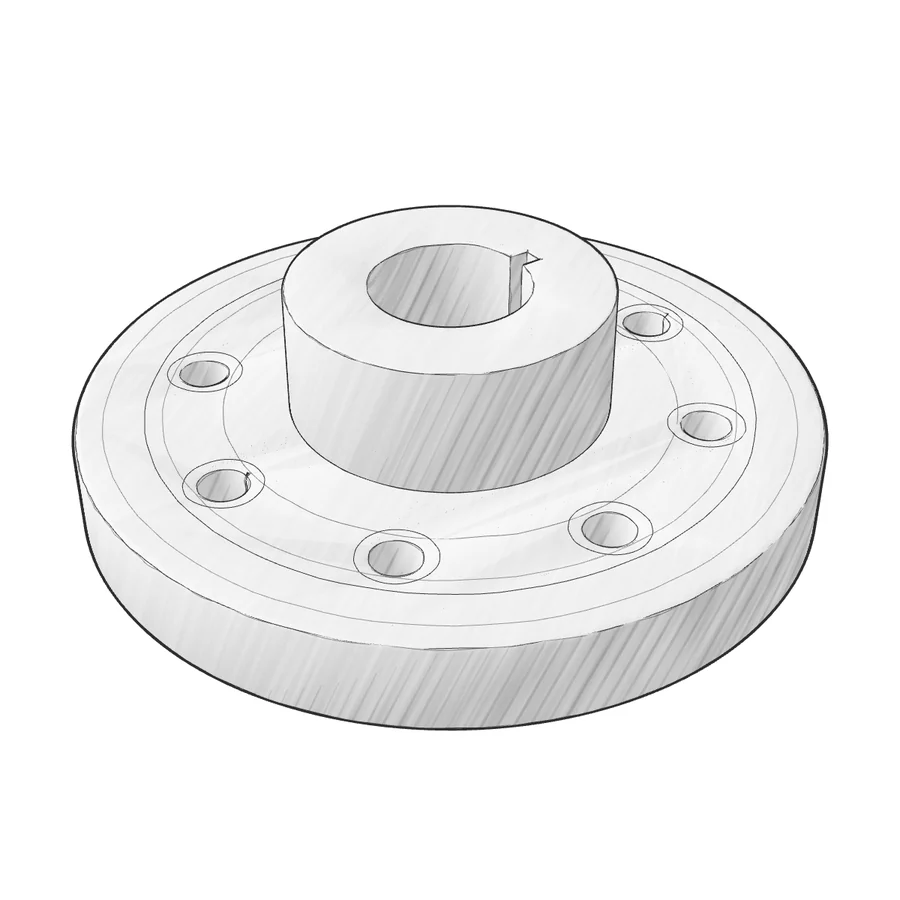
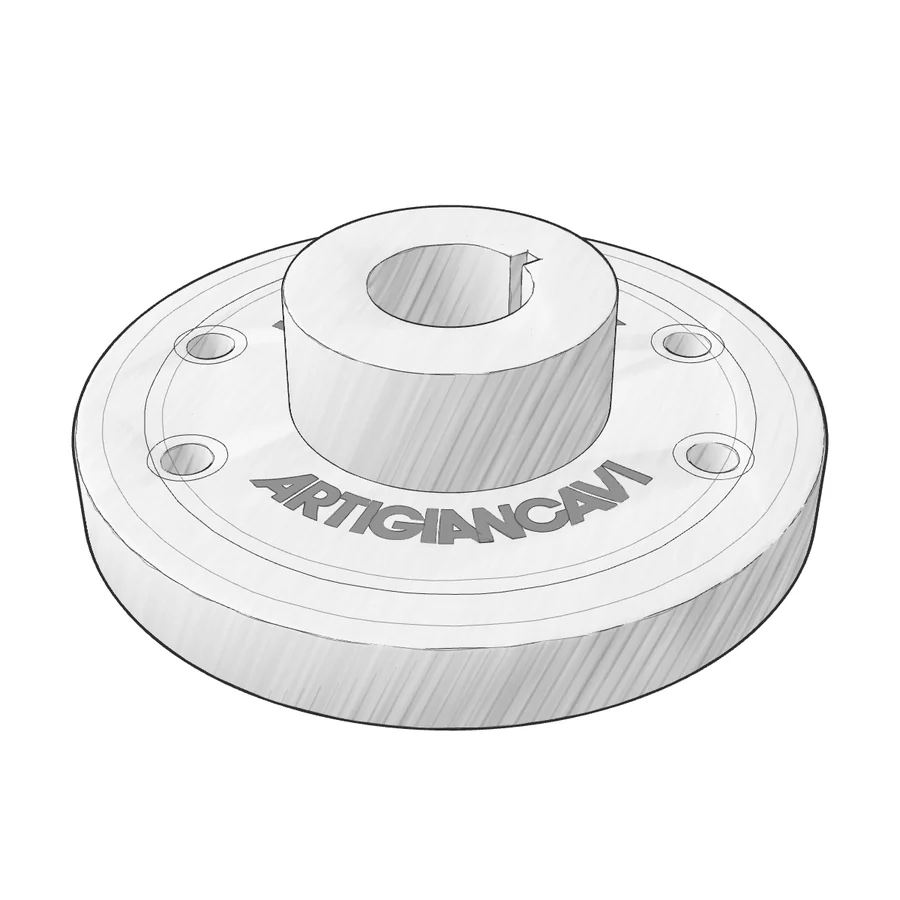
feat: disco con 4 fori e scritta ARTIGIANCAVI incisa, di nuovo col mouse
Meno fori e scritta incisa con le lettere del logo su due archi opposti. Corretta la riga bianca dentro un foro (cerchi a poligono). Il disco segue di nuovo il mouse. Foto di partenza rifatta. Versione file v=52.

diff --git a/js/hero3d.js b/js/hero3d.js
@@ -6,6 +6,7 @@
    Il tema chiaro/scuro lo gestisce il CSS (stessa regola dell'immagine a matita): qui si disegna sempre nero su carta bianca. */
 import * as THREE from "three";
 import { RoomEnvironment } from "./vendor/RoomEnvironment.js";
+import { LETTERE, LARGHEZZA, ALTEZZA } from "./logo-lettere.js";
 
 (function () {
   "use strict";
@@ -18,8 +19,7 @@ import { RoomEnvironment } from "./vendor/RoomEnvironment.js";
   var ANGOLO_INIZIO = 0.6;    // stesso angolo della foto segnaposto
   var INCLINAZIONE = modo3d ? -1.0 : -0.95;   // quanto il pezzo e' inclinato verso chi guarda
   var VELOCITA = modo3d ? 0.22 : 0.5;   // giri (radianti al secondo)
-  // Il metallo segue il mouse; il disco a matita NO: se si inclina cambiano le zone d'ombra e il tratteggio compare e sparisce
-  var MOUSE_X = modo3d ? 0.35 : 0, MOUSE_Y = modo3d ? 0.18 : 0;
+  var MOUSE_X = 0.35, MOUSE_Y = 0.18;   // inclinazione del metallo col mouse
 
   var renderer;
   try {
@@ -105,7 +105,11 @@ import { RoomEnvironment } from "./vendor/RoomEnvironment.js";
     var g = new THREE.BufferGeometry(); g.setAttribute("position", new THREE.Float32BufferAttribute(fuori, 3));
     return new THREE.LineSegments(g, mat);
   }
-  function foroTondo(x, y, r) { var p = new THREE.Path(); p.absarc(x, y, r, 0, Math.PI * 2, true); return p; }
+  // Cerchi come poligoni con punti tutti diversi: con l'arco intero il punto di partenza e quello di arrivo coincidono e
+  // lasciavano una riga verticale dentro i fori.
+  function puntiCerchio(x, y, r, n) { var p = []; for (var i = 0; i < n; i++) { var a = i / n * Math.PI * 2; p.push(new THREE.Vector2(x + r * Math.cos(a), y + r * Math.sin(a))); } return p; }
+  function foroTondo(x, y, r) { return new THREE.Path(puntiCerchio(x, y, r, 72).reverse()); }
+  function cerchioPieno(r, n) { return new THREE.Shape(puntiCerchio(0, 0, r, n)); }
   // Foro centrale con la sede della linguetta (una tacca rettangolare sul lato destro)
   function foroConLinguetta(r, mezza, fondo) {
     var a0 = Math.asin(mezza / r), p = new THREE.Path();
@@ -173,9 +177,39 @@ import { RoomEnvironment } from "./vendor/RoomEnvironment.js";
     "  #include <colorspace_fragment>",
     "}"].join("\n");
 
+  // "ARTIGIANCAVI" con le lettere del logo, incisa su un arco della faccia superiore (la base delle lettere sta verso il bordo,
+  // la cima verso il mozzo). Ogni punto della lettera e' portato sull'arco; i lati sono suddivisi cosi' restano curvi.
+  function scrittaIncisa(gruppo, z, centroGradi, bordo, altezza, matRiempi, matL1, matL2) {
+    var sc = altezza / ALTEZZA, rm = bordo - altezza / 2, uc = LARGHEZZA / 2, th0 = centroGradi * Math.PI / 180;
+    var porta = function (pt) { var u = (pt[0] - uc) * sc, v = pt[1] * sc, th = th0 + u / rm, r = bordo - v; return new THREE.Vector2(r * Math.cos(th), r * Math.sin(th)); };
+    var densa = function (poly) {
+      var out = [];
+      for (var i = 0; i < poly.length; i++) {
+        var a = poly[i], b = poly[(i + 1) % poly.length], n = Math.max(1, Math.ceil(Math.hypot(b[0] - a[0], b[1] - a[1]) / 1.6));
+        for (var k = 0; k < n; k++) out.push([a[0] + (b[0] - a[0]) * k / n, a[1] + (b[1] - a[1]) * k / n]);
+      }
+      return out;
+    };
+    var linee = function (pts, seme, amp, mat) {
+      var fuori = [], a = new THREE.Vector3(), b = new THREE.Vector3();
+      for (var i = 0; i < pts.length; i++) { var p = pts[i], q = pts[(i + 1) % pts.length]; a.set(p.x, p.y, z + 0.05); b.set(q.x, q.y, z + 0.05); trattoMano(a, b, seme, amp, 2, fuori); }
+      var g = new THREE.BufferGeometry(); g.setAttribute("position", new THREE.Float32BufferAttribute(fuori, 3));
+      return new THREE.LineSegments(g, mat);
+    };
+    LETTERE.forEach(function (l, i) {
+      var est = densa(l.e).map(porta), fori = l.f.map(function (h) { return densa(h).map(porta); });
+      var forma = new THREE.Shape(est); fori.forEach(function (h) { forma.holes.push(new THREE.Path(h)); });
+      var m = new THREE.Mesh(new THREE.ShapeGeometry(forma), matRiempi); m.position.z = z + 0.04; gruppo.add(m);
+      gruppo.add(linee(est, 11 + i, 0.14, matL1), linee(est, 23 + i, 0.3, matL2));
+      fori.forEach(function (h, k) { gruppo.add(linee(h, 41 + i + k, 0.14, matL1)); });
+    });
+  }
+
   function costruisciDiscoMatita() {
     // Misure ricavate dallo schizzo (raggio flangia = 100)
-    var R = 100, SPESS = 26, R_MOZZO = 43, ALT_MOZZO = 36, R_FORO = 22.4, R_FORI = 70, r_foro = 8;
+    var R = 100, SPESS = 26, R_MOZZO = 43, ALT_MOZZO = 36, R_FORO = 22.4, R_FORI = 74, r_foro = 8;
+    var ANGOLI_FORI = [-56, -12, 124, 168].map(function (g) { return g * Math.PI / 180; });   // 4 fori, nei vuoti fra le due scritte
+    var CENTRO_SCRITTA = -124;                                                                   // gradi: la prima scritta sta davanti nell'immagine di partenza
     // La luce e' scelta in modo che la prima immagine (foto di partenza) abbia l'ombra a destra, poi resta fissa SUL PEZZO
     var inizio = new THREE.Matrix4().makeRotationX(INCLINAZIONE).multiply(new THREE.Matrix4().makeRotationZ(ANGOLO_INIZIO));
     var lucePezzo = new THREE.Vector3(-0.70, 0.55, 0.50).normalize().transformDirection(inizio.clone().invert());
@@ -188,12 +222,12 @@ import { RoomEnvironment } from "./vendor/RoomEnvironment.js";
     var matLinea2 = new THREE.LineBasicMaterial({ color: 0x2a2a2a, transparent: true, opacity: 0.45 });
     var matLieve = new THREE.LineBasicMaterial({ color: 0x2a2a2a, transparent: true, opacity: 0.55 });
 
-    var flangia = new THREE.Shape(); flangia.absarc(0, 0, R, 0, Math.PI * 2, false);
-    for (var k = 0; k < 8; k++) { var a = k * Math.PI / 4; flangia.holes.push(foroTondo(R_FORI * Math.cos(a), R_FORI * Math.sin(a), r_foro)); }
+    var flangia = cerchioPieno(R, 160);
+    ANGOLI_FORI.forEach(function (a) { flangia.holes.push(foroTondo(R_FORI * Math.cos(a), R_FORI * Math.sin(a), r_foro)); });
     flangia.holes.push(foroTondo(0, 0, R_FORO));
     var gFlangia = estrusione(flangia, SPESS, 1.6, 0);
 
-    var mozzo = new THREE.Shape(); mozzo.absarc(0, 0, R_MOZZO, 0, Math.PI * 2, false);
+    var mozzo = cerchioPieno(R_MOZZO, 120);
     mozzo.holes.push(foroConLinguetta(R_FORO, 3.4, 5.5));
     var gMozzo = estrusione(mozzo, ALT_MOZZO, 0.8, SPESS);
 
@@ -209,11 +243,12 @@ import { RoomEnvironment } from "./vendor/RoomEnvironment.js";
     // segni sulla faccia superiore: anello, bordo con gradino, cerchio leggero, svasature dei fori
     var zf = SPESS + 0.06;
     gruppo.add(lineeCerchio(0, 0, zf, 83, 3.1, 0.30, matLinea1), lineeCerchio(0, 0, zf, 78, 4.4, 0.30, matLinea2), lineeCerchio(0, 0, zf, 94, 2.2, 0.3, matLinea2));
-    gruppo.add(lineeCerchio(0, 0, zf, 62, 5.7, 0.35, matLieve));
-    for (var j = 0; j < 8; j++) {
-      var b = j * Math.PI / 4;
+    ANGOLI_FORI.forEach(function (b, j) {
       gruppo.add(lineeCerchio(R_FORI * Math.cos(b), R_FORI * Math.sin(b), zf, r_foro + 2.4, 6.0 + j, 0.25, matLinea1));
-    }
+    });
+    var matIncisione = new THREE.MeshBasicMaterial({ color: 0x5a5a5a, transparent: true, opacity: 0.62, polygonOffset: true, polygonOffsetFactor: -2, polygonOffsetUnits: -2 });
+    scrittaIncisa(gruppo, zf, CENTRO_SCRITTA, 64, 13.5, matIncisione, matLinea1, matLinea2);
+    scrittaIncisa(gruppo, zf, CENTRO_SCRITTA + 180, 64, 13.5, matIncisione, matLinea1, matLinea2);
     gruppo.position.z = -(SPESS + ALT_MOZZO) / 2 + 6;   // il disco sull'asse di rotazione
     gruppo.scale.setScalar(0.64);
     return gruppo;
@@ -233,9 +268,9 @@ import { RoomEnvironment } from "./vendor/RoomEnvironment.js";
       esterno.rotation.y += (mouseX * MOUSE_X - esterno.rotation.y) * 0.05;
       esterno.rotation.x += (INCLINAZIONE + mouseY * MOUSE_Y - esterno.rotation.x) * 0.05;
     } else {
-      // il disco a matita oscilla lentamente da una parte all'altra e annuisce: si vedono le superfici girare (all'istante 0 e' come la foto)
-      esterno.rotation.y = 0.42 * Math.sin(t * 0.45);
-      esterno.rotation.x = INCLINAZIONE + 0.09 * Math.sin(t * 0.31);
+      // segue il mouse e in piu' oscilla appena (all'istante 0, con il mouse al centro, e' come la foto): si vedono le superfici girare
+      esterno.rotation.y += (mouseX * 0.38 + 0.16 * Math.sin(t * 0.45) - esterno.rotation.y) * 0.06;
+      esterno.rotation.x += (INCLINAZIONE + mouseY * 0.2 + 0.04 * Math.sin(t * 0.31) - esterno.rotation.x) * 0.06;
     }
     aggiornaUniformi();
     renderer.render(scena, camera);

diff --git a/js/logo-lettere.js b/js/logo-lettere.js
@@ -1,0 +1,3 @@
+/* Lettere del logo ARTIGIANCAVI (da img/logo.svg) come poligoni: x da 0 a 638.1, y da 0 (base) a 80.1 (alto). Generato da uno script, non modificare a mano. */
+export const LARGHEZZA = 638.1, ALTEZZA = 80.1;
+export const LETTERE = [{"e":[[69.3,80.1],[69.3,0.0],[50.8,0.0],[50.8,12.1],[28.3,12.1],[19.6,0.0],[0.0,0.0],[50.6,80.1],[69.3,80.1]],"f":[[[39.4,29.7],[50.8,29.7],[50.8,45.4],[39.4,29.7]]]},{"e":[[133.4,0.0],[110.7,0.0],[93.9,26.2],[93.9,0.0],[75.2,0.0],[75.2,80.1],[105.1,80.1],[105.8,80.1],[107.8,80.1],[110.8,79.8],[114.4,79.1],[118.3,77.6],[122.2,75.3],[125.8,71.8],[128.8,67.1],[130.8,60.9],[131.5,52.9],[131.0,47.0],[129.7,42.3],[127.8,38.5],[125.5,35.7],[122.9,33.7],[120.4,32.3],[118.1,31.4],[116.2,30.9],[114.9,30.7],[114.4,30.7]],"f":[[[100.9,42.5],[101.2,42.5],[102.0,42.6],[103.1,42.8],[104.6,43.2],[106.1,43.8],[107.6,44.7],[109.1,46.0],[110.2,47.8],[111.0,50.0],[111.3,52.8],[111.0,55.6],[110.2,57.8],[109.1,59.6],[107.7,60.9],[106.1,61.8],[104.6,62.4],[103.2,62.8],[102.1,63.0],[101.3,63.1],[101.0,63.1],[99.9,63.1],[98.8,63.1],[97.7,63.1],[96.8,63.1],[96.0,63.1],[95.3,63.1],[94.7,63.1],[94.3,63.1],[94.0,63.1],[93.9,63.1],[93.9,42.5],[100.9,42.5]]]},{"e":[[179.4,80.1],[179.4,63.1],[163.5,63.1],[163.5,0.0],[144.1,0.0],[144.1,63.1],[129.6,63.1],[129.6,80.1]],"f":[]},{"e":[[182.2,80.1],[201.0,80.1],[201.0,0.0],[182.2,0.0]],"f":[]},{"e":[[279.0,42.0],[235.3,42.0],[235.3,26.6],[256.5,26.6],[255.3,25.3],[253.9,24.0],[252.5,22.9],[250.9,22.0],[249.3,21.1],[247.5,20.5],[245.7,19.9],[243.8,19.5],[241.9,19.3],[239.9,19.2],[236.4,19.5],[233.1,20.3],[230.0,21.6],[227.2,23.3],[224.7,25.4],[222.5,27.9],[220.8,30.7],[219.5,33.8],[218.7,37.0],[218.4,40.5],[218.7,44.0],[219.5,47.2],[220.8,50.3],[222.5,53.1],[224.7,55.6],[227.2,57.7],[230.0,59.4],[233.1,60.7],[236.4,61.5],[239.9,61.8],[242.2,61.7],[244.5,61.3],[246.7,60.7],[248.8,59.9],[250.8,58.9],[252.6,57.7],[254.3,56.3],[255.9,54.7],[257.3,53.0],[258.5,51.2],[277.6,51.2],[275.8,56.0],[273.5,60.5],[270.5,64.7],[267.1,68.5],[263.3,71.8],[259.0,74.6],[254.4,76.9],[249.5,78.6],[244.3,79.6],[238.9,80.0],[232.4,79.5],[226.1,77.9],[220.4,75.5],[215.1,72.2],[210.4,68.2],[206.4,63.5],[203.1,58.3],[200.7,52.5],[199.1,46.4],[198.6,39.9],[199.1,33.4],[200.7,27.3],[203.1,21.5],[206.4,16.3],[210.4,11.7],[215.1,7.7],[220.4,4.4],[226.2,2.0],[232.4,0.5],[238.9,-0.0],[245.4,0.5],[251.7,2.0],[257.4,4.5],[262.7,7.7],[267.4,11.7],[271.4,16.4],[274.7,21.6],[277.1,27.3],[278.7,33.4],[279.2,39.9],[279.2,40.4],[279.2,40.8],[279.2,41.1],[279.2,41.4],[279.1,41.6],[279.1,41.8],[279.1,41.9],[279.0,42.0],[279.0,42.0],[279.0,42.0]],"f":[]},{"e":[[278.6,80.1],[297.4,80.1],[297.4,0.0],[278.6,0.0]],"f":[]},{"e":[[302.2,80.0],[302.3,0.0],[321.4,0.0],[321.4,12.1],[344.6,12.1],[353.5,0.0],[354.1,0.0],[355.6,0.0],[357.8,0.0],[360.5,0.0],[363.4,0.1],[366.3,0.1],[369.0,0.1],[371.2,0.1],[372.7,0.1],[373.3,0.1],[321.6,80.0],[302.2,80.0]],"f":[[[332.9,29.7],[321.3,29.7],[321.3,45.4],[332.9,29.7]]]},{"e":[[354.4,80.1],[373.2,80.1],[399.1,35.2],[399.1,80.1],[417.6,80.1],[417.6,0.0],[398.9,0.0],[373.2,41.9],[373.2,0.0],[354.4,0.0]],"f":[]},{"e":[[476.6,34.8],[475.7,32.1],[474.4,29.6],[472.9,27.3],[471.1,25.2],[469.0,23.3],[466.7,21.8],[464.3,20.5],[461.6,19.6],[458.8,19.0],[455.9,18.8],[452.4,19.1],[449.1,19.9],[446.0,21.2],[443.2,23.0],[440.7,25.1],[438.5,27.7],[436.8,30.5],[435.5,33.6],[434.7,36.9],[434.4,40.4],[434.7,43.9],[435.5,47.2],[436.8,50.3],[438.5,53.1],[440.7,55.7],[443.2,57.8],[446.0,59.6],[449.1,60.9],[452.4,61.7],[455.9,62.0],[458.5,61.8],[461.1,61.4],[463.5,60.6],[465.8,59.6],[467.9,58.3],[469.8,56.8],[471.6,55.1],[473.2,53.2],[474.5,51.1],[475.6,48.9],[495.5,48.9],[494.0,54.2],[491.8,59.1],[488.9,63.7],[485.5,67.7],[481.6,71.3],[477.2,74.4],[472.4,76.8],[467.2,78.6],[461.8,79.7],[456.1,80.1],[449.6,79.6],[443.3,78.1],[437.6,75.7],[432.3,72.5],[427.6,68.6],[423.6,64.0],[420.3,58.8],[417.9,53.1],[416.3,46.9],[415.8,40.4],[416.3,33.8],[417.9,27.6],[420.3,21.8],[423.6,16.5],[427.6,11.8],[432.3,7.8],[437.6,4.5],[443.4,2.1],[449.6,0.5],[456.1,-0.0],[462.1,0.4],[467.8,1.7],[473.2,3.8],[478.2,6.6],[482.7,10.1],[486.7,14.1],[490.0,18.7],[492.8,23.7],[494.8,29.1],[496.0,34.9],[476.6,34.9]],"f":[]},{"e":[[512.0,80.1],[528.6,80.1],[559.5,0.0],[538.8,0.0],[534.3,12.0],[506.9,12.0],[502.1,-0.1],[482.5,-0.1]],"f":[[[513.8,29.7],[527.6,29.7],[520.9,47.7],[513.8,29.7]]]},{"e":[[536.0,80.1],[556.3,80.1],[575.1,27.5],[596.1,80.1],[598.5,80.1],[601.2,80.1],[604.1,80.1],[607.0,80.1],[609.8,80.1],[612.4,80.1],[614.6,80.1],[616.4,80.1],[617.5,80.1],[617.9,80.1],[583.8,0.0],[566.6,0.0],[536.0,80.1]],"f":[]},{"e":[[619.2,80.1],[638.1,80.1],[638.1,0.0],[619.2,0.0]],"f":[]}];

diff --git a/index.html b/index.html
@@ -31,8 +31,8 @@
 <script type="importmap">{"imports":{"three":"./js/vendor/three.module.min.js"}}</script>
 <link rel="preload" as="image" href="img/hero-ruota.webp" type="image/webp" fetchpriority="high">
 <link rel="modulepreload" href="js/vendor/three.module.min.js">
-<link rel="modulepreload" href="js/hero3d.js?v=51">
-<link rel="stylesheet" href="css/style.css?v=51">
+<link rel="modulepreload" href="js/hero3d.js?v=52">
+<link rel="stylesheet" href="css/style.css?v=52">
 </head>
 <body>
 
@@ -158,16 +158,16 @@
   </div>
 </footer>
 
-<script src="js/schedario.js?v=51"></script>
-<script src="js/prezzi.js?v=51"></script>
-<script src="js/testi.js?v=51"></script>
-<script src="js/i18n.js?v=51"></script>
-<script src="js/file.js?v=51"></script>
-<script src="js/app.js?v=51"></script>
+<script src="js/schedario.js?v=52"></script>
+<script src="js/prezzi.js?v=52"></script>
+<script src="js/testi.js?v=52"></script>
+<script src="js/i18n.js?v=52"></script>
+<script src="js/file.js?v=52"></script>
+<script src="js/app.js?v=52"></script>
 <script>
   /* Il disco che ruota si scarica sempre, tranne con ?disco=immagine (schizzo fermo, molto piu' leggero) */
   (function () {
-    if (!document.documentElement.classList.contains("disco-immagine")) import("./js/hero3d.js?v=51");
+    if (!document.documentElement.classList.contains("disco-immagine")) import("./js/hero3d.js?v=52");
   })();
 </script>
 </body>
